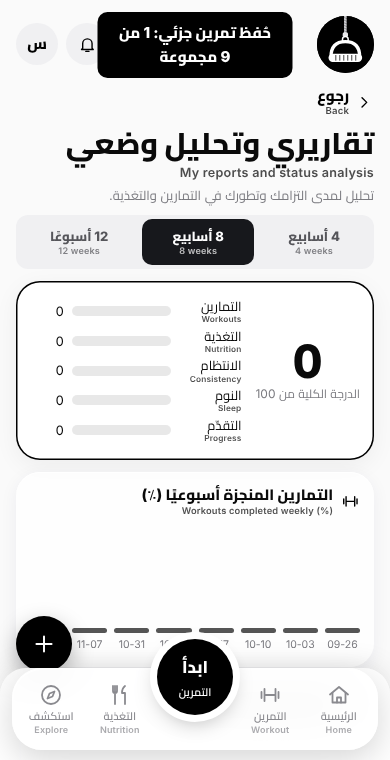
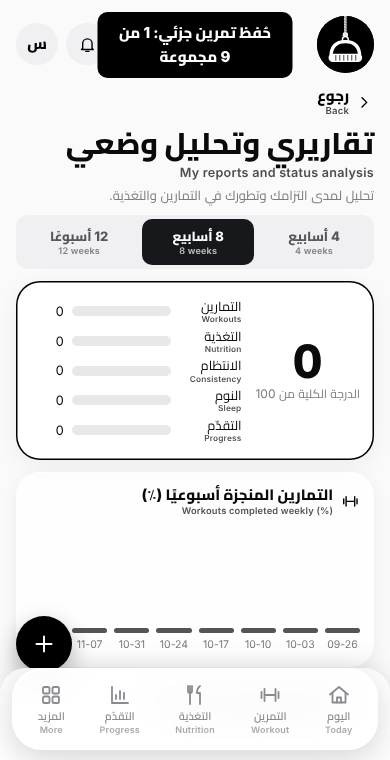
feat(ui): التنقل الخماسي المعتمد: اليوم، التمرين، التغذية، التقدّم، المزيد
- الشريط خمسة تبويبات؛ زر ابدأ العائم يُزال من الشريط (البدء من «اليوم» ومن قائمة +)
- «استكشف» ← «المزيد»؛ «التقدّم» يصل إلى الأرشيف والأوسمة والقياسات والنوم
- اختبار الوصول: كل شاشة خدمة لها زر على أحد التبويبات
- اختبارات P0 تُحدَّث لبوابة موافقة الذكاء الاصطناعي
- tests/nav.e2e.js (38)

Claude-Session: https://claude.ai/code/session_01KyybtLNcTyHNYDyyNW1Vaq

diff --git a/app/fitness-tracker.html b/app/fitness-tracker.html
@@ -3986,7 +3986,7 @@ function vPg(){
  else h+='<button class="goalcard" data-a="sub" data-v="set"><div class="t"><b>حدّد وزنك المستهدف</b><div class="mu">أدخل وزنك الحالي والمستهدف لتظهر رحلتك</div></div>'+ic('next')+'</button>';
  h+='<div class="sechead"><h2>الأوسمة</h2><button class="chip" data-a="sub" data-v="ach">الكل</button></div><div class="medrow">'+medals().join('')+'</div>';
  h+=weekSummary();
- h+='<div class="quick"><button data-a="sub" data-v="wgt">'+ic('scale')+'مراقبة الوزن</button><button data-a="sub" data-v="rpt">'+ic('chart')+'تقاريري</button><button data-a="sub" data-v="prog">'+ic('pulse')+'الإحصاءات</button></div>';
+ h+='<div class="quick"><button data-a="sub" data-v="wgt">'+ic('scale')+'مراقبة الوزن</button><button data-a="sub" data-v="rpt">'+ic('chart')+'تقاريري</button><button data-a="sub" data-v="prog">'+ic('pulse')+'الإحصاءات</button></div><div class="quick" id="pg-more"><button data-a="sub" data-v="arch">'+ic('box')+'الأرشيف</button><button data-a="sub" data-v="ach">'+ic('trophy')+'الأوسمة</button><button data-a="sub" data-v="wgt">'+ic('target')+'قياسات الجسم</button><button data-a="sub" data-v="prog">'+ic('moon')+'النوم</button></div>';
  return h}
 function vDash(){
  let h=vToday();
@@ -4488,7 +4488,7 @@ function commCard(){
 const CTI={curr:['check','#0f766e'],coach:['user','#3b82f6'],art:['book','#8b5cf6'],anat:['pulse','#ef4444'],learn:['target','#22c55e'],myth:['spark','#f59e0b'],gloss:['search','#0891b2'],safe:['heart','#e11d48'],aasn:['star','#d97706'],supp:['drop','#16a34a'],moh:['info','#0369a1']};
 function vEx(){
  const GRP=[['التدريب',['wk','plan','prog','ach','arch','rpt']],['الصحة والتغذية',['meal','wgt','tools','link','rem']],['النادي والمعرفة',['gyms','nau','vis','cul','coach']],['المجتمع والحساب',['comm','nc','set','me']]];
- let h='<h1>استكشف</h1><div class="mu" style="margin-bottom:12px">كل ميزات خطوة في مكان واحد</div>';
+ let h='<h1>المزيد</h1><div class="mu" style="margin-bottom:12px">كل ميزات خطوة في مكان واحد</div>';
  h+='<div class="sechead"><h2>اخترنا لك</h2></div>'+rail(picks().map(chipF));
  h+='<div class="sechead"><h2>اختصاراتي</h2><button class="chip" data-a="drop" data-v="edit">تخصيص</button></div>'+rail(scList().map(i=>chipF(FD[i])));
  h+=commCard();
@@ -4543,10 +4543,10 @@ function render(){
  if(locked()){$('#app').innerHTML=vLock();$('#nav').innerHTML='';fitLogos();return}
  if(S.tab==='home')S.tab='dash';const y=window.scrollY,onb=!S.prof.ob,LA=!onb&&S.tab==='home'&&!S.sub;document.body.classList.toggle('lau-on',LA);document.body.classList.toggle('oh',!!S.prof.oh);document.body.classList.toggle('ohl',S.prof.oh==='l');
  const WKM=S.sub==='wk',head=(onb||LA||WKM||(S.tab==='me'&&!S.sub))?'':'<div class="top"><button class="logob" data-a="go" data-v="dash" aria-label="الرئيسية">'+logo(21)+'</button><span class="row tbr"><button class="av tb" data-a="srch" aria-label="بحث">'+ic('search')+'</button><button class="av tb" data-a="langm" aria-label="اللغة">'+ic('lang')+'</button><button class="av tb" data-a="drop" data-v="open" aria-label="اختصاراتي">'+ic('grid')+'</button><button class="av tb" data-a="sub" data-v="nc" aria-label="الإشعارات">'+ic('bell')+(ncUnread()?'<i class="nbd">'+ncUnread()+'</i>':'')+'</button><button class="av" data-a="go" data-v="me" aria-label="حسابي">'+(S.prof.av?'<img alt="" src="'+S.prof.av+'">':esc((S.prof.name||'س').charAt(0)))+'</button></span></div>';
- $('#app').innerHTML=head+view()+((onb||LA||WKM)?'':(UI.fab?'<div class="fabm"><button data-a="fgo" data-v="food">'+ic('fork')+'تسجيل وجبة</button><button data-a="fgo" data-v="train">'+ic('dumbbell')+'بدء تمرين</button><button data-a="fgo" data-v="dash" data-sc="1">'+ic('scale')+'تسجيل وزن أو نوم</button><button data-a="ai" data-t="text">'+ic('mic')+'إملاء أو تصوير</button></div>':'')+'<button class="fab" data-a="fab" aria-label="إضافة سريعة">'+ic(UI.fab?'x':'plus')+'</button>')+sheetHtml()+aiConsentHtml()+drawerHtml()+langMenu()+fpHtml();
- const N=[['dash','home','الرئيسية'],['train','dumbbell','التمرين'],['food','fork','التغذية'],['ex','compass','استكشف']];
+ $('#app').innerHTML=head+view()+((onb||LA||WKM)?'':(UI.fab?'<div class="fabm"><button data-a="fgo" data-v="food">'+ic('fork')+'تسجيل وجبة</button><button data-a="wkstart" id="fab-start">'+ic('dumbbell')+'بدء تمرين اليوم</button><button data-a="fgo" data-v="dash" data-sc="1">'+ic('scale')+'تسجيل وزن أو نوم</button><button data-a="ai" data-t="text">'+ic('mic')+'إملاء أو تصوير</button></div>':'')+'<button class="fab" data-a="fab" aria-label="إضافة سريعة">'+ic(UI.fab?'x':'plus')+'</button>')+sheetHtml()+aiConsentHtml()+drawerHtml()+langMenu()+fpHtml();
+ const N=[['dash','home','اليوم'],['train','dumbbell','التمرين'],['food','fork','التغذية'],['pg','chart','التقدّم'],['ex','grid','المزيد']];
  const N4=N.filter(n=>n[0]!=='me'),nb=n=>'<button class="'+(n[0]===S.tab?'on':'')+'" data-a="go" data-v="'+n[0]+'" aria-label="'+n[2]+'">'+ic(n[1])+'<span>'+n[2]+'</span></button>';
- $('#nav').innerHTML=(onb||LA||WKM)?'':'<div class="pill2">'+nb(N4[0])+nb(N4[1])+'<span class="nsp"></span>'+nb(N4[2])+nb(N4[3])+'<button class="nfab nobi-x" data-a="wkstart" aria-label="ابدأ التمرين"><b>ابدأ</b><small>التمرين</small></button></div>';
+ $('#nav').innerHTML=(onb||LA||WKM)?'':'<div class="pill2">'+N4.map(nb).join('')+'</div>';
  fitLogos();scanAttach();window.scrollTo(0,y)}
 function soft(){clearTimeout(renderT);renderT=setTimeout(()=>{if(editing())dirty=true;else render()},350)}
 const editing=()=>{const a=document.activeElement;return a&&/^(INPUT|TEXTAREA|SELECT)$/.test(a.tagName)&&a.type!=='file'};

diff --git a/pwa/index.html b/pwa/index.html
@@ -3987,7 +3987,7 @@ function vPg(){
  else h+='<button class="goalcard" data-a="sub" data-v="set"><div class="t"><b>حدّد وزنك المستهدف</b><div class="mu">أدخل وزنك الحالي والمستهدف لتظهر رحلتك</div></div>'+ic('next')+'</button>';
  h+='<div class="sechead"><h2>الأوسمة</h2><button class="chip" data-a="sub" data-v="ach">الكل</button></div><div class="medrow">'+medals().join('')+'</div>';
  h+=weekSummary();
- h+='<div class="quick"><button data-a="sub" data-v="wgt">'+ic('scale')+'مراقبة الوزن</button><button data-a="sub" data-v="rpt">'+ic('chart')+'تقاريري</button><button data-a="sub" data-v="prog">'+ic('pulse')+'الإحصاءات</button></div>';
+ h+='<div class="quick"><button data-a="sub" data-v="wgt">'+ic('scale')+'مراقبة الوزن</button><button data-a="sub" data-v="rpt">'+ic('chart')+'تقاريري</button><button data-a="sub" data-v="prog">'+ic('pulse')+'الإحصاءات</button></div><div class="quick" id="pg-more"><button data-a="sub" data-v="arch">'+ic('box')+'الأرشيف</button><button data-a="sub" data-v="ach">'+ic('trophy')+'الأوسمة</button><button data-a="sub" data-v="wgt">'+ic('target')+'قياسات الجسم</button><button data-a="sub" data-v="prog">'+ic('moon')+'النوم</button></div>';
  return h}
 function vDash(){
  let h=vToday();
@@ -4489,7 +4489,7 @@ function commCard(){
 const CTI={curr:['check','#0f766e'],coach:['user','#3b82f6'],art:['book','#8b5cf6'],anat:['pulse','#ef4444'],learn:['target','#22c55e'],myth:['spark','#f59e0b'],gloss:['search','#0891b2'],safe:['heart','#e11d48'],aasn:['star','#d97706'],supp:['drop','#16a34a'],moh:['info','#0369a1']};
 function vEx(){
  const GRP=[['التدريب',['wk','plan','prog','ach','arch','rpt']],['الصحة والتغذية',['meal','wgt','tools','link','rem']],['النادي والمعرفة',['gyms','nau','vis','cul','coach']],['المجتمع والحساب',['comm','nc','set','me']]];
- let h='<h1>استكشف</h1><div class="mu" style="margin-bottom:12px">كل ميزات خطوة في مكان واحد</div>';
+ let h='<h1>المزيد</h1><div class="mu" style="margin-bottom:12px">كل ميزات خطوة في مكان واحد</div>';
  h+='<div class="sechead"><h2>اخترنا لك</h2></div>'+rail(picks().map(chipF));
  h+='<div class="sechead"><h2>اختصاراتي</h2><button class="chip" data-a="drop" data-v="edit">تخصيص</button></div>'+rail(scList().map(i=>chipF(FD[i])));
  h+=commCard();
@@ -4544,10 +4544,10 @@ function render(){
  if(locked()){$('#app').innerHTML=vLock();$('#nav').innerHTML='';fitLogos();return}
  if(S.tab==='home')S.tab='dash';const y=window.scrollY,onb=!S.prof.ob,LA=!onb&&S.tab==='home'&&!S.sub;document.body.classList.toggle('lau-on',LA);document.body.classList.toggle('oh',!!S.prof.oh);document.body.classList.toggle('ohl',S.prof.oh==='l');
  const WKM=S.sub==='wk',head=(onb||LA||WKM||(S.tab==='me'&&!S.sub))?'':'<div class="top"><button class="logob" data-a="go" data-v="dash" aria-label="الرئيسية">'+logo(21)+'</button><span class="row tbr"><button class="av tb" data-a="srch" aria-label="بحث">'+ic('search')+'</button><button class="av tb" data-a="langm" aria-label="اللغة">'+ic('lang')+'</button><button class="av tb" data-a="drop" data-v="open" aria-label="اختصاراتي">'+ic('grid')+'</button><button class="av tb" data-a="sub" data-v="nc" aria-label="الإشعارات">'+ic('bell')+(ncUnread()?'<i class="nbd">'+ncUnread()+'</i>':'')+'</button><button class="av" data-a="go" data-v="me" aria-label="حسابي">'+(S.prof.av?'<img alt="" src="'+S.prof.av+'">':esc((S.prof.name||'س').charAt(0)))+'</button></span></div>';
- $('#app').innerHTML=head+view()+((onb||LA||WKM)?'':(UI.fab?'<div class="fabm"><button data-a="fgo" data-v="food">'+ic('fork')+'تسجيل وجبة</button><button data-a="fgo" data-v="train">'+ic('dumbbell')+'بدء تمرين</button><button data-a="fgo" data-v="dash" data-sc="1">'+ic('scale')+'تسجيل وزن أو نوم</button><button data-a="ai" data-t="text">'+ic('mic')+'إملاء أو تصوير</button></div>':'')+'<button class="fab" data-a="fab" aria-label="إضافة سريعة">'+ic(UI.fab?'x':'plus')+'</button>')+sheetHtml()+aiConsentHtml()+drawerHtml()+langMenu()+fpHtml();
- const N=[['dash','home','الرئيسية'],['train','dumbbell','التمرين'],['food','fork','التغذية'],['ex','compass','استكشف']];
+ $('#app').innerHTML=head+view()+((onb||LA||WKM)?'':(UI.fab?'<div class="fabm"><button data-a="fgo" data-v="food">'+ic('fork')+'تسجيل وجبة</button><button data-a="wkstart" id="fab-start">'+ic('dumbbell')+'بدء تمرين اليوم</button><button data-a="fgo" data-v="dash" data-sc="1">'+ic('scale')+'تسجيل وزن أو نوم</button><button data-a="ai" data-t="text">'+ic('mic')+'إملاء أو تصوير</button></div>':'')+'<button class="fab" data-a="fab" aria-label="إضافة سريعة">'+ic(UI.fab?'x':'plus')+'</button>')+sheetHtml()+aiConsentHtml()+drawerHtml()+langMenu()+fpHtml();
+ const N=[['dash','home','اليوم'],['train','dumbbell','التمرين'],['food','fork','التغذية'],['pg','chart','التقدّم'],['ex','grid','المزيد']];
  const N4=N.filter(n=>n[0]!=='me'),nb=n=>'<button class="'+(n[0]===S.tab?'on':'')+'" data-a="go" data-v="'+n[0]+'" aria-label="'+n[2]+'">'+ic(n[1])+'<span>'+n[2]+'</span></button>';
- $('#nav').innerHTML=(onb||LA||WKM)?'':'<div class="pill2">'+nb(N4[0])+nb(N4[1])+'<span class="nsp"></span>'+nb(N4[2])+nb(N4[3])+'<button class="nfab nobi-x" data-a="wkstart" aria-label="ابدأ التمرين"><b>ابدأ</b><small>التمرين</small></button></div>';
+ $('#nav').innerHTML=(onb||LA||WKM)?'':'<div class="pill2">'+N4.map(nb).join('')+'</div>';
  fitLogos();scanAttach();window.scrollTo(0,y)}
 function soft(){clearTimeout(renderT);renderT=setTimeout(()=>{if(editing())dirty=true;else render()},350)}
 const editing=()=>{const a=document.activeElement;return a&&/^(INPUT|TEXTAREA|SELECT)$/.test(a.tagName)&&a.type!=='file'};

diff --git a/www/index.html b/www/index.html
@@ -3987,7 +3987,7 @@ function vPg(){
  else h+='<button class="goalcard" data-a="sub" data-v="set"><div class="t"><b>حدّد وزنك المستهدف</b><div class="mu">أدخل وزنك الحالي والمستهدف لتظهر رحلتك</div></div>'+ic('next')+'</button>';
  h+='<div class="sechead"><h2>الأوسمة</h2><button class="chip" data-a="sub" data-v="ach">الكل</button></div><div class="medrow">'+medals().join('')+'</div>';
  h+=weekSummary();
- h+='<div class="quick"><button data-a="sub" data-v="wgt">'+ic('scale')+'مراقبة الوزن</button><button data-a="sub" data-v="rpt">'+ic('chart')+'تقاريري</button><button data-a="sub" data-v="prog">'+ic('pulse')+'الإحصاءات</button></div>';
+ h+='<div class="quick"><button data-a="sub" data-v="wgt">'+ic('scale')+'مراقبة الوزن</button><button data-a="sub" data-v="rpt">'+ic('chart')+'تقاريري</button><button data-a="sub" data-v="prog">'+ic('pulse')+'الإحصاءات</button></div><div class="quick" id="pg-more"><button data-a="sub" data-v="arch">'+ic('box')+'الأرشيف</button><button data-a="sub" data-v="ach">'+ic('trophy')+'الأوسمة</button><button data-a="sub" data-v="wgt">'+ic('target')+'قياسات الجسم</button><button data-a="sub" data-v="prog">'+ic('moon')+'النوم</button></div>';
  return h}
 function vDash(){
  let h=vToday();
@@ -4489,7 +4489,7 @@ function commCard(){
 const CTI={curr:['check','#0f766e'],coach:['user','#3b82f6'],art:['book','#8b5cf6'],anat:['pulse','#ef4444'],learn:['target','#22c55e'],myth:['spark','#f59e0b'],gloss:['search','#0891b2'],safe:['heart','#e11d48'],aasn:['star','#d97706'],supp:['drop','#16a34a'],moh:['info','#0369a1']};
 function vEx(){
  const GRP=[['التدريب',['wk','plan','prog','ach','arch','rpt']],['الصحة والتغذية',['meal','wgt','tools','link','rem']],['النادي والمعرفة',['gyms','nau','vis','cul','coach']],['المجتمع والحساب',['comm','nc','set','me']]];
- let h='<h1>استكشف</h1><div class="mu" style="margin-bottom:12px">كل ميزات خطوة في مكان واحد</div>';
+ let h='<h1>المزيد</h1><div class="mu" style="margin-bottom:12px">كل ميزات خطوة في مكان واحد</div>';
  h+='<div class="sechead"><h2>اخترنا لك</h2></div>'+rail(picks().map(chipF));
  h+='<div class="sechead"><h2>اختصاراتي</h2><button class="chip" data-a="drop" data-v="edit">تخصيص</button></div>'+rail(scList().map(i=>chipF(FD[i])));
  h+=commCard();
@@ -4544,10 +4544,10 @@ function render(){
  if(locked()){$('#app').innerHTML=vLock();$('#nav').innerHTML='';fitLogos();return}
  if(S.tab==='home')S.tab='dash';const y=window.scrollY,onb=!S.prof.ob,LA=!onb&&S.tab==='home'&&!S.sub;document.body.classList.toggle('lau-on',LA);document.body.classList.toggle('oh',!!S.prof.oh);document.body.classList.toggle('ohl',S.prof.oh==='l');
  const WKM=S.sub==='wk',head=(onb||LA||WKM||(S.tab==='me'&&!S.sub))?'':'<div class="top"><button class="logob" data-a="go" data-v="dash" aria-label="الرئيسية">'+logo(21)+'</button><span class="row tbr"><button class="av tb" data-a="srch" aria-label="بحث">'+ic('search')+'</button><button class="av tb" data-a="langm" aria-label="اللغة">'+ic('lang')+'</button><button class="av tb" data-a="drop" data-v="open" aria-label="اختصاراتي">'+ic('grid')+'</button><button class="av tb" data-a="sub" data-v="nc" aria-label="الإشعارات">'+ic('bell')+(ncUnread()?'<i class="nbd">'+ncUnread()+'</i>':'')+'</button><button class="av" data-a="go" data-v="me" aria-label="حسابي">'+(S.prof.av?'<img alt="" src="'+S.prof.av+'">':esc((S.prof.name||'س').charAt(0)))+'</button></span></div>';
- $('#app').innerHTML=head+view()+((onb||LA||WKM)?'':(UI.fab?'<div class="fabm"><button data-a="fgo" data-v="food">'+ic('fork')+'تسجيل وجبة</button><button data-a="fgo" data-v="train">'+ic('dumbbell')+'بدء تمرين</button><button data-a="fgo" data-v="dash" data-sc="1">'+ic('scale')+'تسجيل وزن أو نوم</button><button data-a="ai" data-t="text">'+ic('mic')+'إملاء أو تصوير</button></div>':'')+'<button class="fab" data-a="fab" aria-label="إضافة سريعة">'+ic(UI.fab?'x':'plus')+'</button>')+sheetHtml()+aiConsentHtml()+drawerHtml()+langMenu()+fpHtml();
- const N=[['dash','home','الرئيسية'],['train','dumbbell','التمرين'],['food','fork','التغذية'],['ex','compass','استكشف']];
+ $('#app').innerHTML=head+view()+((onb||LA||WKM)?'':(UI.fab?'<div class="fabm"><button data-a="fgo" data-v="food">'+ic('fork')+'تسجيل وجبة</button><button data-a="wkstart" id="fab-start">'+ic('dumbbell')+'بدء تمرين اليوم</button><button data-a="fgo" data-v="dash" data-sc="1">'+ic('scale')+'تسجيل وزن أو نوم</button><button data-a="ai" data-t="text">'+ic('mic')+'إملاء أو تصوير</button></div>':'')+'<button class="fab" data-a="fab" aria-label="إضافة سريعة">'+ic(UI.fab?'x':'plus')+'</button>')+sheetHtml()+aiConsentHtml()+drawerHtml()+langMenu()+fpHtml();
+ const N=[['dash','home','اليوم'],['train','dumbbell','التمرين'],['food','fork','التغذية'],['pg','chart','التقدّم'],['ex','grid','المزيد']];
  const N4=N.filter(n=>n[0]!=='me'),nb=n=>'<button class="'+(n[0]===S.tab?'on':'')+'" data-a="go" data-v="'+n[0]+'" aria-label="'+n[2]+'">'+ic(n[1])+'<span>'+n[2]+'</span></button>';
- $('#nav').innerHTML=(onb||LA||WKM)?'':'<div class="pill2">'+nb(N4[0])+nb(N4[1])+'<span class="nsp"></span>'+nb(N4[2])+nb(N4[3])+'<button class="nfab nobi-x" data-a="wkstart" aria-label="ابدأ التمرين"><b>ابدأ</b><small>التمرين</small></button></div>';
+ $('#nav').innerHTML=(onb||LA||WKM)?'':'<div class="pill2">'+N4.map(nb).join('')+'</div>';
  fitLogos();scanAttach();window.scrollTo(0,y)}
 function soft(){clearTimeout(renderT);renderT=setTimeout(()=>{if(editing())dirty=true;else render()},350)}
 const editing=()=>{const a=document.activeElement;return a&&/^(INPUT|TEXTAREA|SELECT)$/.test(a.tagName)&&a.type!=='file'};

diff --git a/tests/nav.e2e.js b/tests/nav.e2e.js
@@ -1,0 +1,38 @@
+/* التنقل الخماسي (اليوم، التمرين، التغذية، التقدّم، المزيد) وإمكانية الوصول إلى كل خدمة من الواجهة، عند 320 و390.
+   تشغيل: NODE_PATH=$(npm root -g) node tests/nav.e2e.js [مسار index.html] */
+const {chromium}=require('playwright'),path=require('path'),fs=require('fs');
+const file=path.resolve(process.argv[2]||path.join(__dirname,'../www/index.html'));
+let pass=0,fail=0;const ok=(c,m,x)=>{if(c){pass++;console.log('  ok   '+m)}else{fail++;console.log('  FAIL '+m+(x?'  ['+x+']':''))}};
+const src=fs.readFileSync(file,'utf8');
+/* الشاشات المسجّلة في جدول العرض؛ ما يُستثنى شاشات داخلية لا تُفتح من قائمة (تُفتح من سياقها) */
+const tbl=src.match(/if\(S\.sub\)\{const f=\{([^}]*)\}\[S\.sub\]/)[1].split(',').map(x=>x.split(':')[0].trim());
+const INNER=new Set(['wk','mk','srch','ply','exd','ssd','nad','mpg','prg','exl','fin','aip','gye','watch','coach','comm','nc']);
+const MUST=tbl.filter(x=>!INNER.has(x));
+(async()=>{const b=await chromium.launch();
+ for(const w of [320,390]){
+  const p=await (await b.newContext({viewport:{width:w,height:760}})).newPage();const errs=[];p.on('pageerror',e=>errs.push(e.message));
+  await p.goto('file://'+file);await p.waitForTimeout(500);
+  await p.evaluate(()=>{S.prof.ob=1;S.prof.name='مختبر';S.plan=[0,1,2,3,4,5,6].map(()=>({t:'يوم',ex:[E('بنش',3,8,40)]}));S.prof.startW=80;S.bw[TD()]=80;S.tab='dash';S.sub=null;save();render()});
+  const labels=await p.$$eval('#nav button',a=>a.map(x=>x.getAttribute('aria-label')));
+  ok(labels.join('|')==='اليوم|التمرين|التغذية|التقدّم|المزيد',w+': خمس تبويبات بالترتيب المعتمد',labels.join('|'));
+  ok(!await p.$('#nav .nfab'),w+': لا زر ابدأ عائم في الشريط (البدء من «اليوم» ومن زر +)');
+  const geo=await p.$$eval('#nav button',a=>a.map(x=>{const r=x.getBoundingClientRect();return[Math.round(r.width),Math.round(r.height),x.scrollWidth>x.clientWidth+1]}));
+  ok(geo.every(g=>g[0]>=40&&g[1]>=40&&!g[2]),w+': كل تبويب بعرض/ارتفاع ≥ 40px بلا قصّ',JSON.stringify(geo));
+  const reach=new Set();
+  for(const t of ['dash','train','food','pg','ex']){
+   await p.click('#nav button[data-v="'+t+'"]');await p.waitForTimeout(120);
+   ok(await p.evaluate(t=>S.tab===t&&!S.sub,t),w+': التبويب '+t+' يفتح');
+   ok(await p.evaluate(()=>document.documentElement.scrollWidth<=innerWidth+1),w+': '+t+' بلا تجاوز أفقي');
+   (await p.$$eval('[data-a="sub"],[data-a="go"]',a=>a.map(x=>x.dataset.a+':'+x.dataset.v))).forEach(x=>reach.add(x));
+   if(t==='dash'||t==='train')(await p.$$eval('[data-a="wkstart"],[data-a="mkpick"]',a=>a.map(x=>x.dataset.a))).forEach(x=>reach.add(x))}
+  const miss=MUST.filter(x=>!reach.has('sub:'+x)&&!reach.has('go:'+x));
+  ok(MUST.length>=12&&miss.length===0,w+': كل شاشة خدمة ('+MUST.length+') لها زر على أحد التبويبات الخمسة',miss.join(','));
+  await p.click('#nav button[data-v="pg"]');await p.waitForTimeout(100);
+  const pg=await p.$$eval('#pg-more [data-v]',a=>a.map(x=>x.dataset.v));ok(pg.includes('arch')&&pg.includes('ach')&&pg.includes('wgt')&&pg.includes('prog'),w+': «التقدّم» يصل إلى الأرشيف والأوسمة والوزن/القياسات والنوم',pg.join());
+  await p.click('#nav button[data-v="ex"]');await p.waitForTimeout(100);ok(/المزيد/.test(await p.evaluate(()=>document.querySelector('h1').innerText)),w+': عنوان «المزيد»');
+  await p.evaluate(()=>{S.tab='dash';render()});await p.click('.fab');await p.waitForTimeout(100);
+  ok(!!await p.$('#fab-start'),w+': قائمة + فيها «بدء تمرين اليوم»');await p.click('#fab-start');await p.waitForTimeout(150);
+  ok(await p.evaluate(()=>S.sub==='wk'&&!!UI.wk&&UI.wk.ks.length===1),w+': «بدء تمرين اليوم» من القائمة يفتح مشغّل حصة اليوم');
+  ok(errs.length===0,w+': لا أخطاء صفحة',errs.join('|'));
+  await p.evaluate(()=>{S.sub=null;S.tab='dash';render()});await p.screenshot({path:path.join(__dirname,'../docs/ux/evidence/impl/nav-'+w+'.png')});await p.context().close()}
+ await b.close();console.log(`\n${pass} ناجح، ${fail} فاشل`);process.exit(fail?1:0)})();
